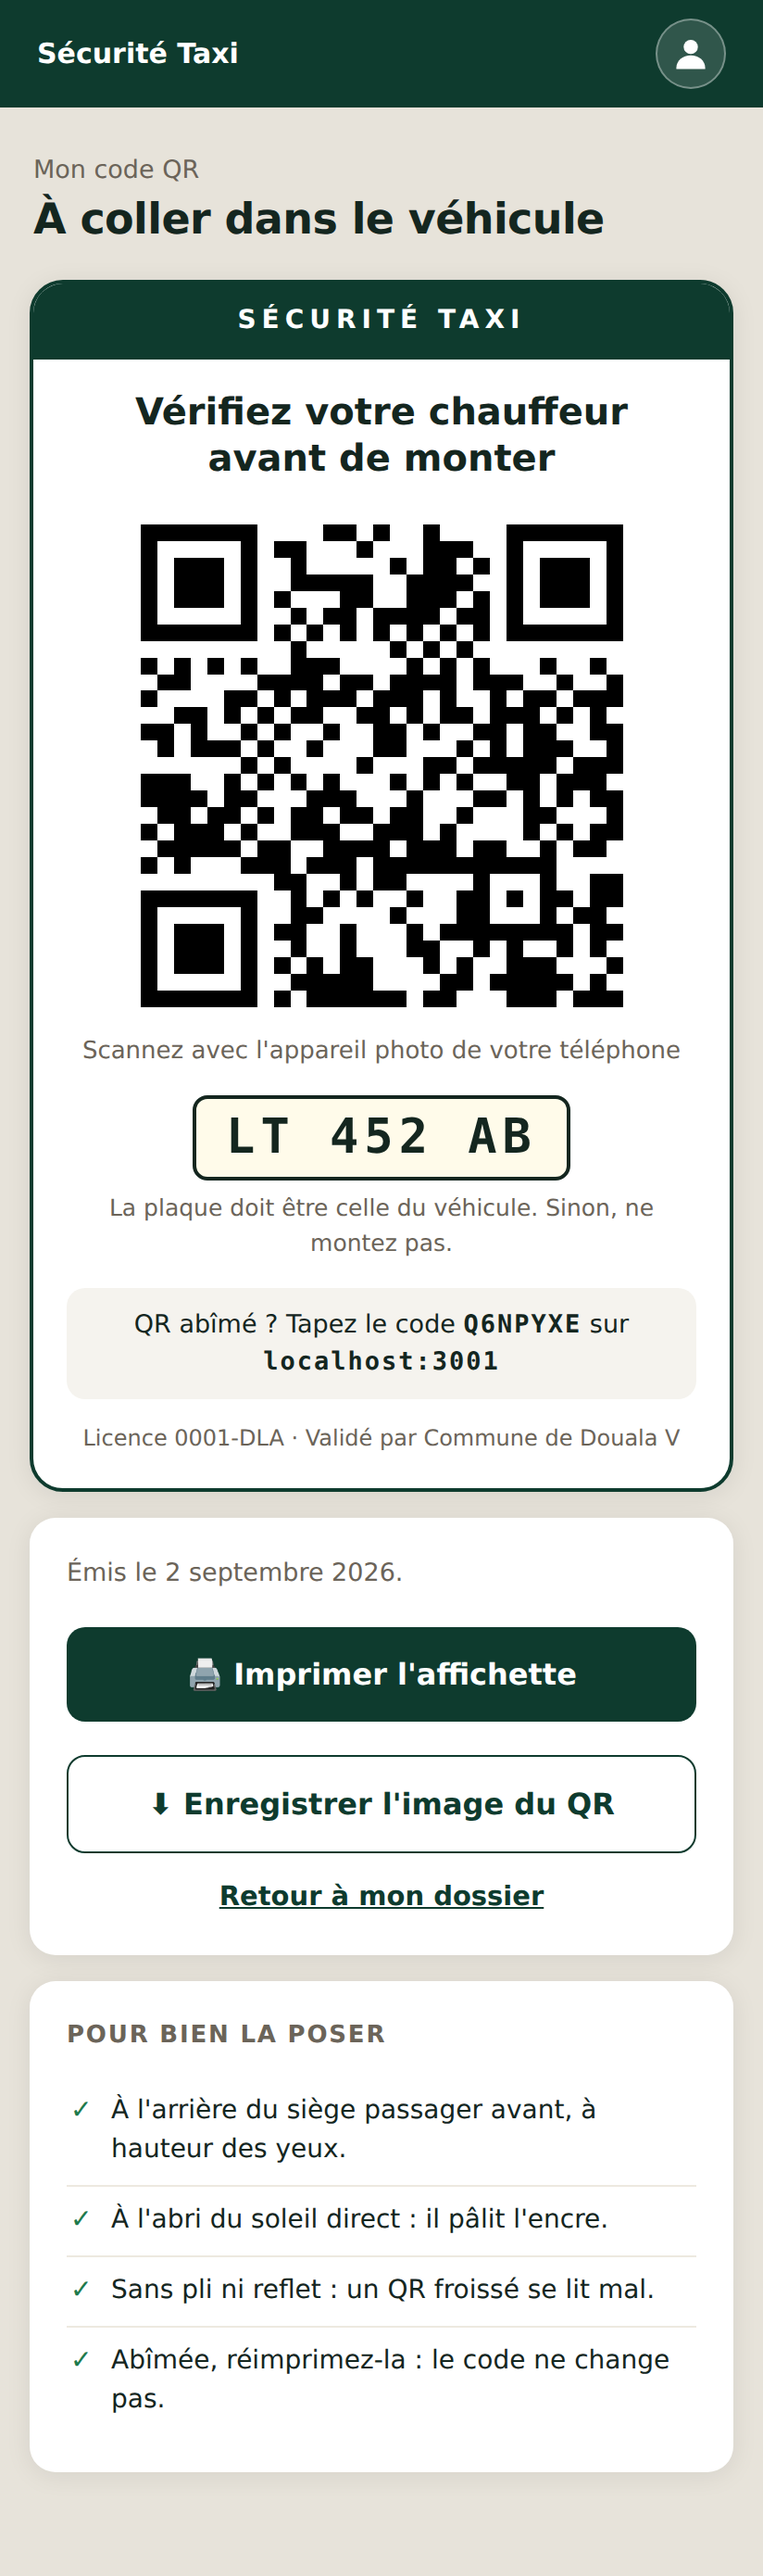
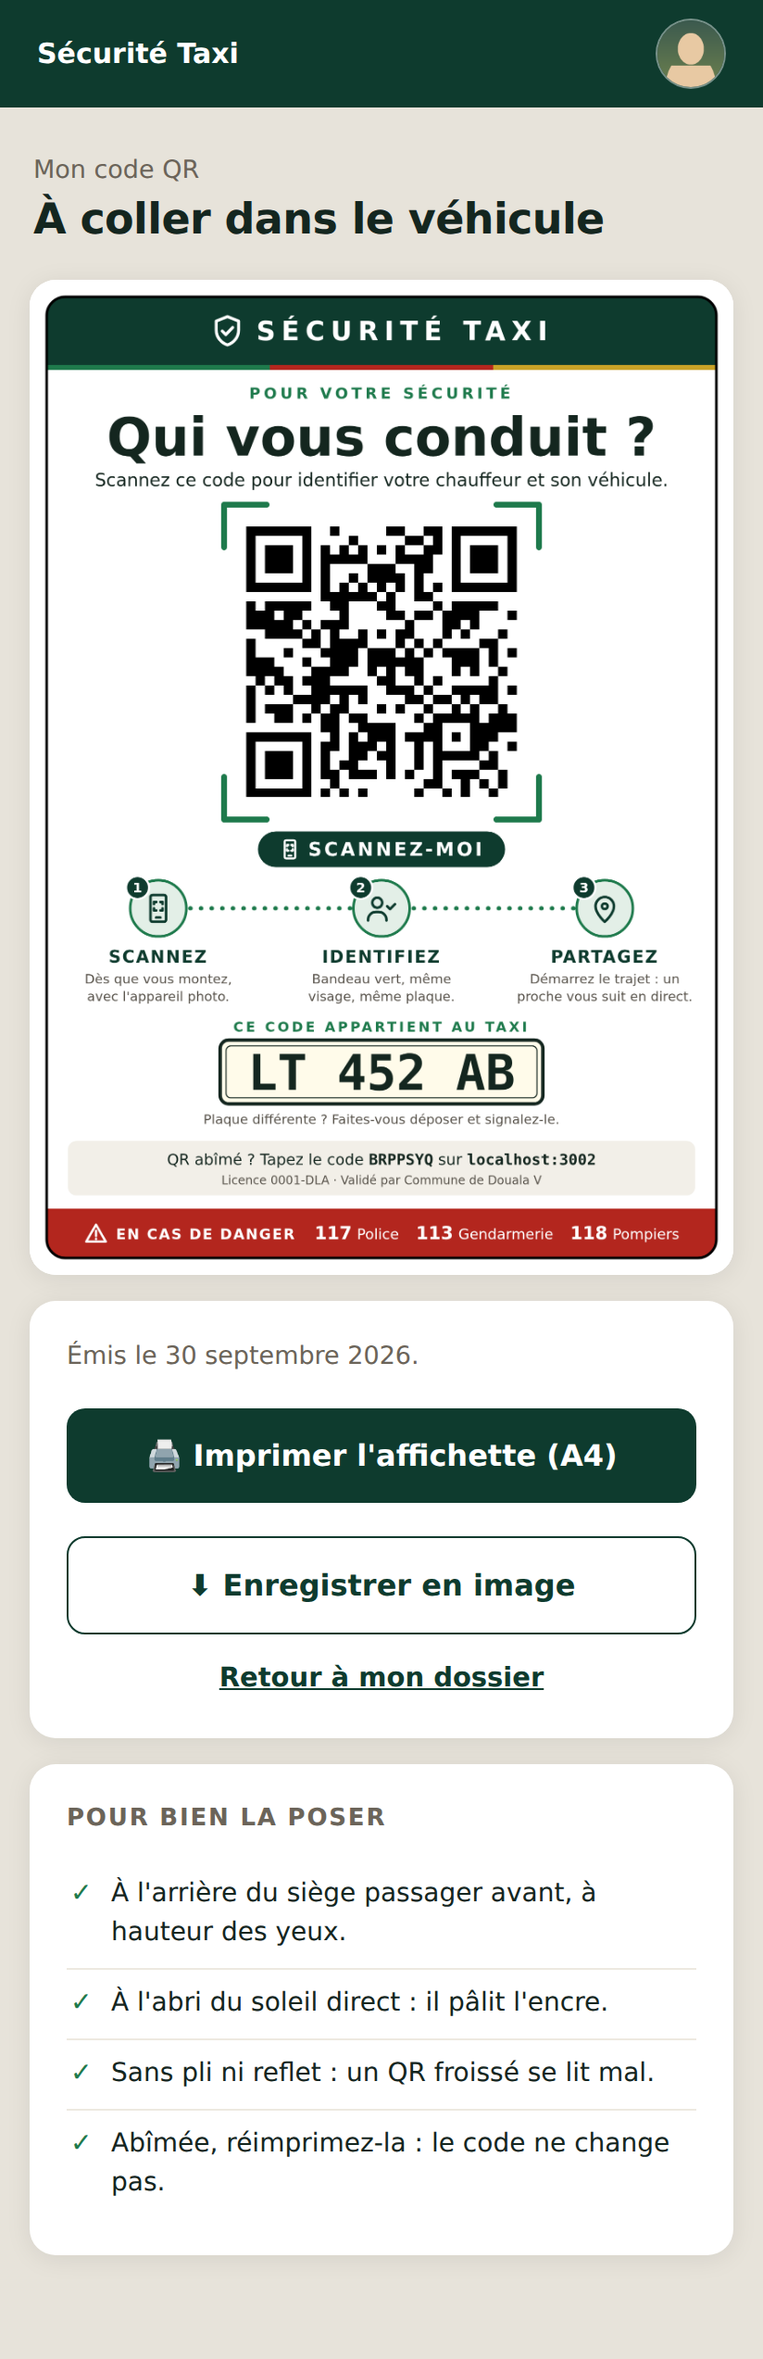
Montre la nouvelle affichette du code QR de Sécurité Taxi
La capture « Code du chauffeur » devient « Affichette du taxi » : la page
« Mon code QR » et l'affiche à coller dans le véhicule — « Qui vous
conduit ? », le QR dans un viseur, trois étapes, la plaque et les
numéros d'urgence. Elle remplace l'ancienne à la même place : la galerie
garde ses deux rangées de quatre. Le texte alternatif décrit l'affiche.
Chiffres recalculés avec la même méthode (lignes TypeScript, SQL et
shell ; commits du dépôt) : 23 000 lignes, 4 parcours, 41 itérations.

diff --git a/index.html b/index.html
@@ -1054,7 +1054,7 @@ footer{
         <div class="faits">
           <div class="fait"><div class="n">23 000</div><div class="q">lignes de code</div></div>
           <div class="fait"><div class="n">4</div><div class="q">parcours distincts</div></div>
-          <div class="fait"><div class="n">39</div><div class="q">itérations</div></div>
+          <div class="fait"><div class="n">41</div><div class="q">itérations</div></div>
         </div>
         <div class="piles">
           <span class="pile">NestJS</span><span class="pile">TypeScript</span>
@@ -1066,7 +1066,7 @@ footer{
       </div>
       <div class="galerie large">
         <figure class="vue"><img src="captures/taxi/scan-registre.png" alt="Scan du code QR d'un taxi de Yaoundé, certifié par le registre de la commune : numéro de portière et plaque conformes au registre" loading="lazy"><figcaption>Scan avant de monter</figcaption></figure>
-        <figure class="vue"><img src="captures/taxi/9-qr.png" alt="Code QR du chauffeur" loading="lazy"><figcaption>Code du chauffeur</figcaption></figure>
+        <figure class="vue"><img src="captures/taxi/9-qr.png" alt="Affichette à coller dans le taxi : « Qui vous conduit ? », le QR à scanner dans un viseur, trois étapes, la plaque du taxi et les numéros d'urgence" loading="lazy"><figcaption>Affichette du taxi</figcaption></figure>
         <figure class="vue"><img src="captures/taxi/2-trajet.png" alt="Suivi du trajet en direct : tracé, durée, distance, et les proches prévenus par SMS" loading="lazy"><figcaption>Suivi en direct</figcaption></figure>
         <figure class="vue bas"><img src="captures/taxi/3-alerte.png" alt="Alerte d'urgence : la barre fixée en bas de l'écran dit qui a été prévenu par SMS" loading="lazy"><figcaption>Alerte d'urgence</figcaption></figure>
         <figure class="vue"><img src="captures/taxi/agent-examen.png" alt="Examen d'un dossier par un agent" loading="lazy"><figcaption>Examen par l'autorité</figcaption></figure>
